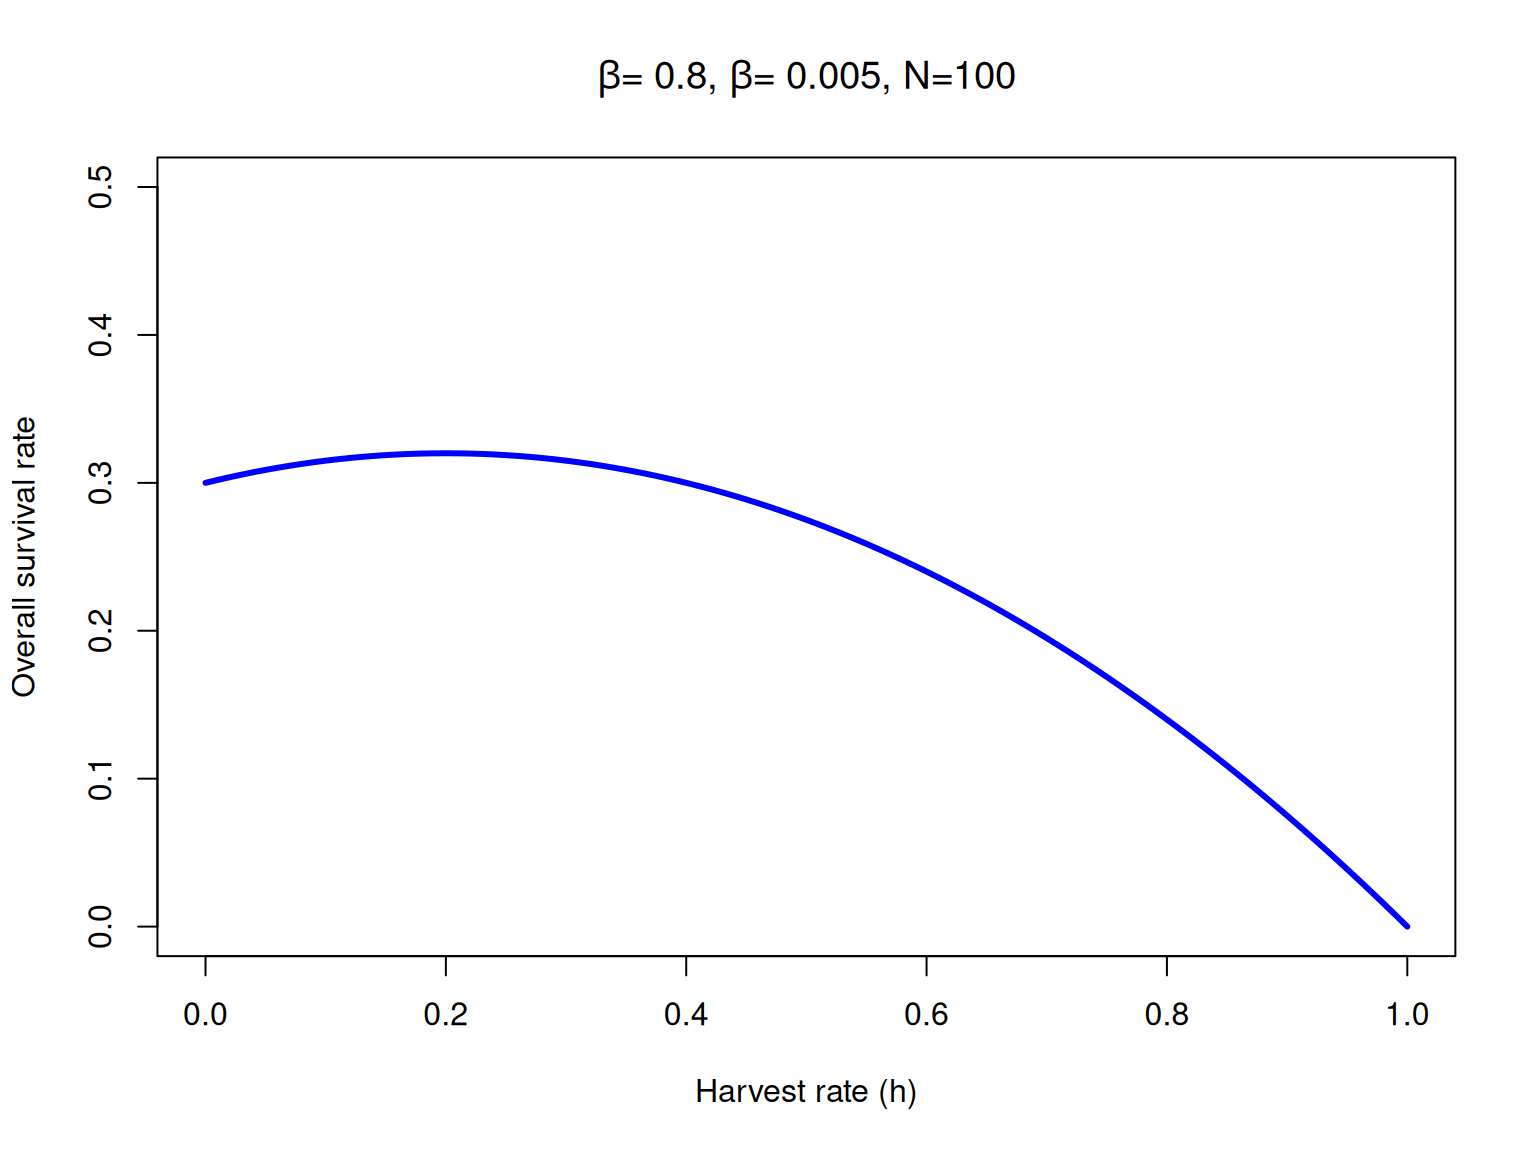
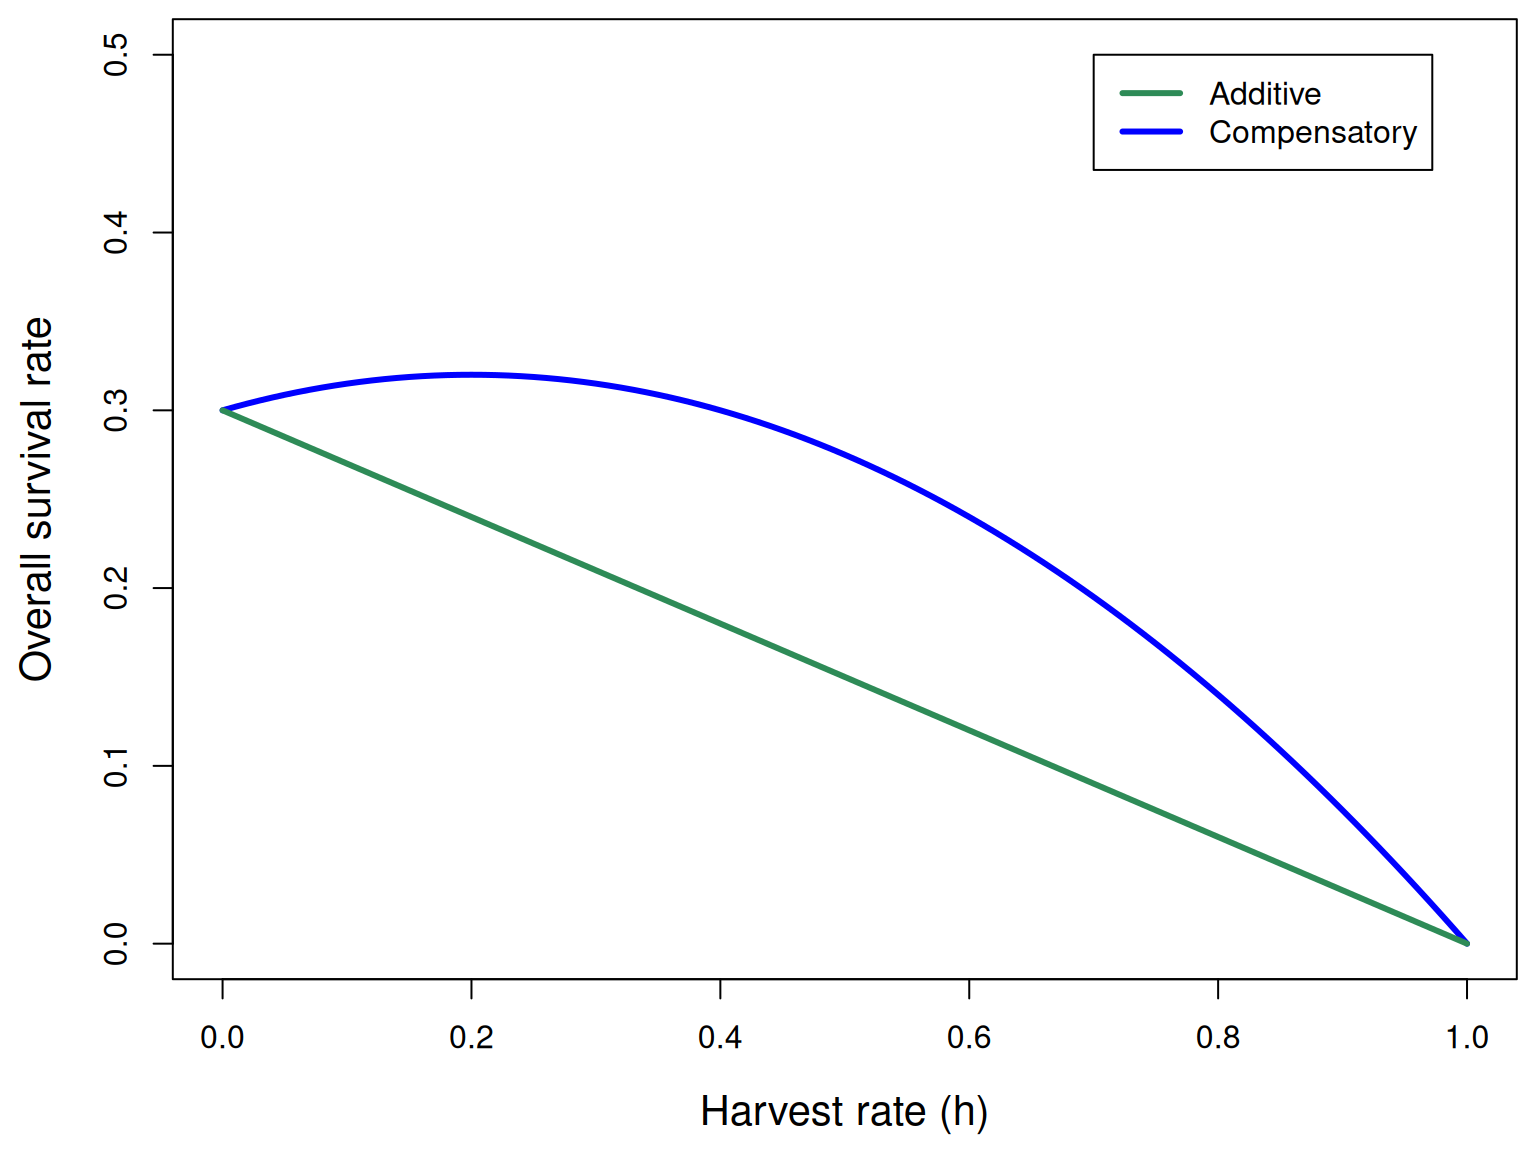
harvest

diff --git a/docs/lectures/harvest/lecture-harvest.html b/docs/lectures/harvest/lecture-harvest.html
@@ -256,14 +256,7 @@ What value of <span class="math inline">\(\color{red}{H_t}\)</span> achieves equ
 <!--   ![](figure/msy2-1) -->
 <!-- </center> -->
 <img data-src="lecture-harvest_files/figure-revealjs/msy2-1.png" class="quarto-figure quarto-figure-center r-stretch" width="960"></section>
-<section id="maximum-sustainable-yield" class="slide level2">
-<h2>Maximum sustainable yield</h2>
-<ul>
-<li><p>MSY is found when <span class="math inline">\(N=K/2\)</span></p></li>
-<li><p>The maximum yield is <span class="math inline">\(H = r_{max}K/4\)</span></p></li>
-<li><p>The optimal harvest rate is <span class="math inline">\(h = r_{max}/2\)</span></p></li>
-</ul>
-</section>
+
 <section id="is-msy-useful-in-practice" class="slide level2">
 <h2>Is MSY useful in practice?</h2>
 <center>
@@ -310,7 +303,7 @@ What value of <span class="math inline">\(\color{red}{H_t}\)</span> achieves equ
 <p><br></p>
 <div class="fragment" style="color: RoyalBlue;">
 <center>
-If harvest mortality is additive, extra caution is needed to ensure that harvest doesn’t cause long-term population declines.
+<strong>If harvest mortality is additive, extra caution is needed to ensure that harvest doesn’t cause long-term population declines</strong>.
 </center>
 </div>
 </div>
@@ -329,52 +322,74 @@ If harvest mortality is additive, extra caution is needed to ensure that harvest
 </div>
 </div>
 </section>
-<section id="individual-survival-vs.-population-size" class="slide level2">
-<h2>Individual survival vs.&nbsp;population size</h2>
+<section id="compensatory-mortality-example-1" class="slide level2">
+<h2>Compensatory mortality example</h2>
+<div style="font-size: 85%;">
 <p><span class="math display">\[S = 0.8 - 0.005 \times N\]</span></p>
+</div>
 
 <!-- ![](figure/phi1-1) -->
 <img data-src="lecture-harvest_files/figure-revealjs/phi1-1.png" class="quarto-figure quarto-figure-center r-stretch" width="768"></section>
-<section id="s-0.8---0.005-x-n" class="slide level2">
-<h2>S = 0.8 - 0.005 x N</h2>
-<p>Suppose 20 individuals are harvested from an initial population of 100 individuals.</p>
+<section id="compensatory-mortality-example-2" class="slide level2">
+<h2>Compensatory mortality example</h2>
+<div style="font-size: 85%;">
+<p><span class="math display">\[S = 0.8 - 0.005 \times N\]</span></p>
+</div>
+<p>Suppose 20 individuals are harvested from the initial population of 100 individuals.</p>
+<p><br></p>
 <p>How many individuals will remain at the end of the year?</p>
+<p><br></p>
 <p>How many would have remained at the end of the year if no hunting had occurred?</p>
-<center>
-<img data-src="lecture-harvest_files/figure-revealjs/phi1-1.png">
-</center>
+<!-- <center> -->
+<!--   ![](lecture-harvest_files/figure-revealjs/phi1-1.png) -->
+<!-- </center> -->
 </section>
-<section id="overall-survival-vs.-harvest-rate" class="slide level2">
-<h2>Overall survival vs.&nbsp;harvest rate</h2>
+<section id="compensatory-mortality-example-3" class="slide level2">
+<h2>Compensatory mortality example</h2>
 <p>The overall survival rate (<span class="math inline">\(\bar{S}\)</span>) is product of survival throughout the hunting season (<span class="math inline">\(1-h\)</span>) and survial after the hunting season.</p>
 <p><span class="math display">\[
   \bar{S} = (1-h)(\beta_0 - \beta_1 (N - Nh))
 \]</span></p>
 </section>
-<section id="overall-survival-vs.-harvest-rate-1" class="slide level2">
-<h2>Overall survival vs.&nbsp;harvest rate</h2>
+<section id="compensatory-mortality-example-4" class="slide level2">
+<h2>Compensatory mortality example</h2>
 <center>
+<div class="r-stack">
+<div class="fragment fade-out" data-fragment-index="1">
+<p><img data-src="lecture-harvest_files/figure-revealjs/phibar1-1.png" style="width:70.0%"></p>
+</div>
+<div class="fragment fade-in" data-fragment-index="1">
+<p><img data-src="lecture-harvest_files/figure-revealjs/phibar2-1.png" style="width:70.0%"></p>
+</div>
+</div>
 </center>
 </section>
 <section id="density-dependent-survival-example" class="slide level2">
 <h2>Density-dependent survival example</h2>
-<p>Mule deer fawn survival (From Bartman et al.&nbsp;1992)</p>
-
-<img data-src="figs/deer-survival-dd.png" class="r-stretch"></section>
+<p><br> Mule deer fawn survival (From Bartman et al.&nbsp;1992)</p>
+<center>
+<img data-src="figs/deer-survival-dd.png">
+</center>
+</section>
 <section id="summary" class="slide level2">
 <h2>Summary</h2>
-<p>Key points</p>
+<!-- Key points -->
+<div style="font-size: 90%;">
 <ul>
-<li>If growth is geometric, sustainable harvest occurs when <span class="math inline">\(h=r\)</span>.</li>
-<li>If growth is logisitic, maximum sustainable yield occurs at <span class="math inline">\(N=K/2\)</span>.</li>
-<li>If survival is density-dependent, harvest mortality can be compensated for by increased survival of remaining individuals (up to a point).</li>
-<li>If mortality is additive, extra caution is needed because harvest is adding to natural mortality without any compensation.</li>
-<li>Managers need to know if harvest mortality is additive or compensatory when setting harvest regulations.</li>
+<li class="fragment">If growth is geometric, sustainable harvest occurs when <span class="math inline">\(h=r\)</span>.</li>
+<li class="fragment">If growth is logisitic, maximum sustainable yield occurs at <span class="math inline">\(N=K/2\)</span>.</li>
+<li class="fragment">If survival is density-dependent, harvest mortality can be compensated for by increased survival of remaining individuals (up to a point).</li>
+<li class="fragment">If mortality is additive, extra caution is needed because harvest is adding to natural mortality without any compensation.</li>
+<li class="fragment">Managers need to know if harvest mortality is additive or compensatory when setting harvest regulations.</li>
 </ul>
+</div>
 </section>
 <section id="assignment" class="slide level2">
 <h2>Assignment</h2>
-<p>Read pages 22–25 in Conroy and Carroll</p>
+<br>
+<center>
+Read pages 22–25 in Conroy and Carroll
+</center>
 
 
 </section></section>
